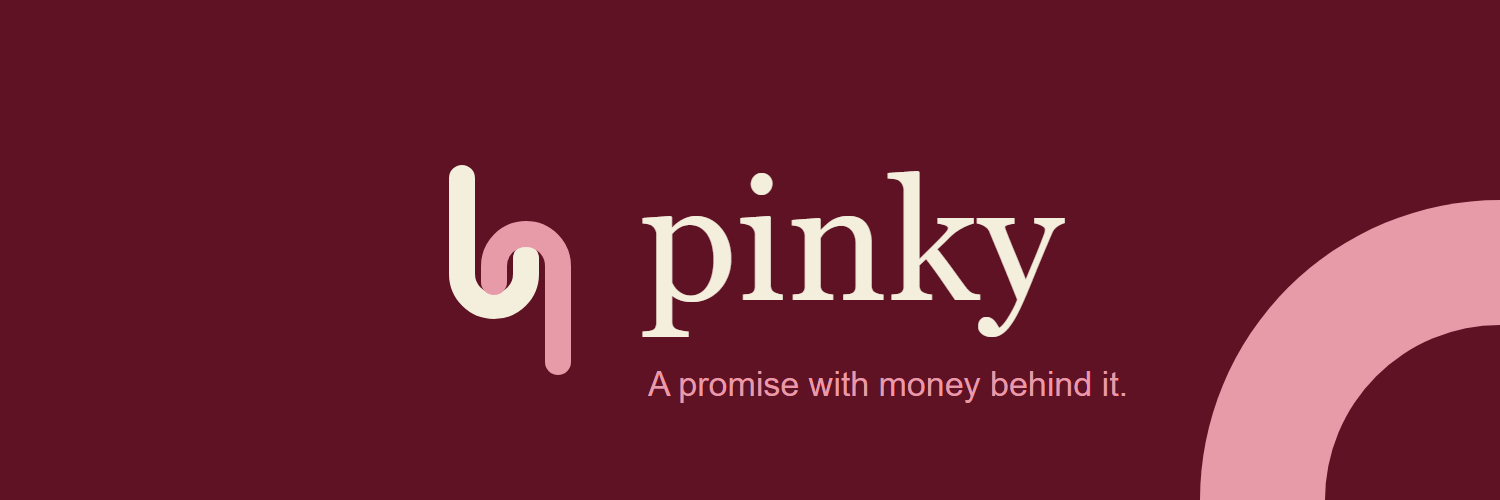
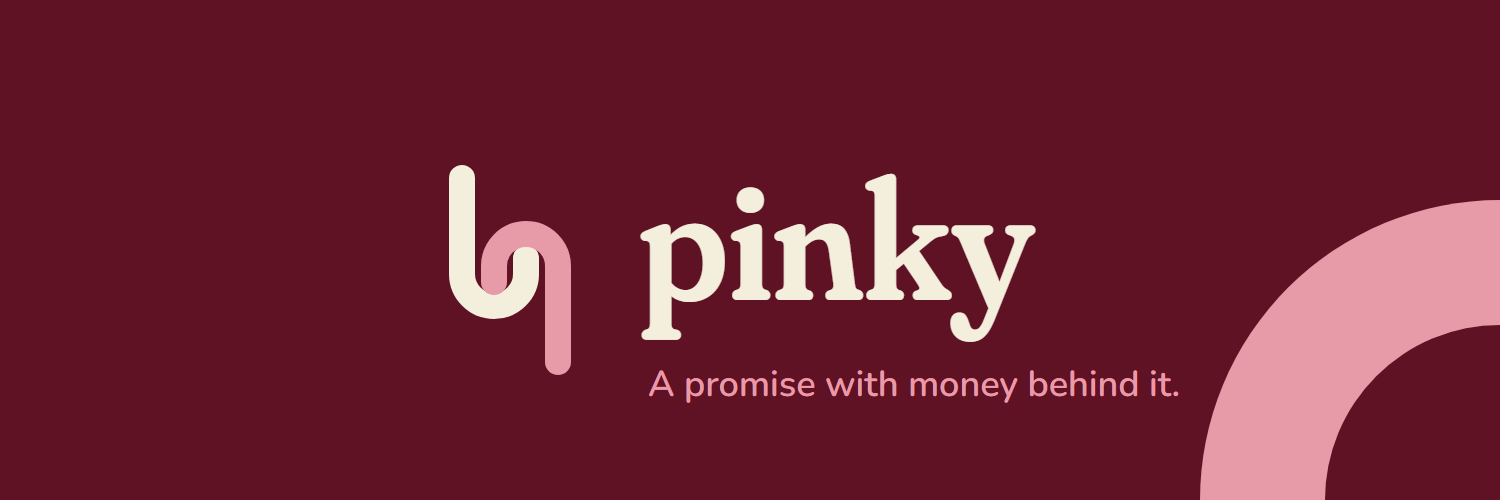
Site: softer type, and the promise form moves into the first screen
Fraunces and Nunito replace the system serif and sans. The form sits
beside the headline on wide screens and right under it on narrow ones.
The X banner uses the same wordmark.

Changed region(s): [[0.4293, 0.33, 0.7053, 0.69], [0.4293, 0.72, 0.7973, 0.81]]

diff --git a/site/style.css b/site/style.css
@@ -4,94 +4,111 @@
   --ivory: #F4EEDD;
   --paper: #FBF8EF;
   --pink: #E79AA8;
+  --pink-deep: #DC8395;
   --line: #DDD3B8;
   --ink-soft: #7A4350;
-  --serif: Georgia, 'Times New Roman', serif;
-  --sans: system-ui, -apple-system, 'Segoe UI', Roboto, sans-serif;
+  --display: 'Fraunces', Georgia, serif;
+  --sans: 'Nunito', system-ui, -apple-system, 'Segoe UI', sans-serif;
   --mono: ui-monospace, 'Cascadia Mono', Consolas, monospace;
 }
 
 * { box-sizing: border-box; }
-html { scroll-behavior: smooth; }
+html { scroll-behavior: smooth; scroll-padding-top: 76px; }
 body { margin: 0; background: var(--ivory); color: var(--wine); font: 17px/1.6 var(--sans); }
 a { color: inherit; }
-.wrap { max-width: 960px; margin: 0 auto; padding: 0 20px; }
+.wrap { max-width: 1040px; margin: 0 auto; padding: 0 20px; }
+
+h1, h2, .brand, .stats dd, .card p.say { font-family: var(--display); font-variation-settings: 'SOFT' 100, 'WONK' 1; }
 
 .top { position: sticky; top: 0; z-index: 5; display: flex; align-items: center; gap: 24px; padding: 12px 20px; background: var(--wine); color: var(--ivory); }
-.brand { display: flex; align-items: center; gap: 8px; text-decoration: none; font: 28px/1 var(--serif); }
+.brand { display: flex; align-items: center; gap: 8px; text-decoration: none; font-size: 30px; font-weight: 600; line-height: 1; }
 .brand svg { width: 28px; height: 34px; }
-.top nav { display: flex; gap: 20px; margin-left: auto; font-size: 15px; }
+.top nav { display: flex; gap: 22px; margin-left: auto; font-size: 15px; font-weight: 600; }
 .top nav a { text-decoration: none; opacity: .85; }
-.top nav a:hover { opacity: 1; text-decoration: underline; }
+.top nav a:hover { opacity: 1; text-decoration: underline; text-decoration-color: var(--pink); }
 
-.btn { font: inherit; font-size: 15px; padding: 10px 18px; border-radius: 999px; border: 1px solid var(--wine); background: var(--wine); color: var(--ivory); cursor: pointer; }
-.btn:hover { background: var(--wine-deep); }
-.btn[disabled] { opacity: .45; cursor: default; }
+.btn { font: 700 15px var(--sans); padding: 11px 20px; border-radius: 999px; border: 2px solid var(--wine); background: var(--wine); color: var(--ivory); cursor: pointer; transition: transform .12s ease, background .12s ease; }
+.btn:hover { background: var(--wine-deep); transform: translateY(-1px); }
+.btn:active { transform: translateY(0); }
+.btn[disabled] { opacity: .45; cursor: default; transform: none; }
 .btn.ghost { background: transparent; border-color: var(--pink); color: var(--ivory); }
+.btn.ghost:hover { background: rgba(231, 154, 168, .15); }
+.btn.pink { background: var(--pink); border-color: var(--pink); color: var(--wine); }
+.btn.pink:hover { background: var(--pink-deep); border-color: var(--pink-deep); }
 .btn.small { padding: 6px 14px; font-size: 14px; }
 .btn.light { background: transparent; color: var(--wine); }
 .btn.light:hover { background: var(--ivory); }
 
-.hero { background: var(--wine); color: var(--ivory); padding: 56px 0 48px; }
-.hero h1 { font: 400 clamp(36px, 6vw, 60px)/1.08 var(--serif); margin: 0 0 16px; max-width: 14ch; }
-.lede { font-size: 20px; max-width: 46ch; margin: 0 0 36px; color: #EBDCD0; }
-.stats { display: grid; grid-template-columns: repeat(4, minmax(0, 1fr)); gap: 16px; margin: 0; }
-.stats div { border-top: 1px solid rgba(244, 238, 221, .25); padding-top: 12px; }
-.stats dt { font-size: 14px; color: var(--pink); }
-.stats dd { margin: 0; font: 34px/1.2 var(--serif); }
+.hero { background: var(--wine); color: var(--ivory); padding: 56px 0 56px; }
+.hero-grid { display: grid; grid-template-columns: minmax(0, 1.15fr) minmax(0, 1fr); gap: 48px; align-items: center; }
+.hero h1 { font-size: clamp(40px, 5.6vw, 64px); font-weight: 600; line-height: 1.04; letter-spacing: -.01em; margin: 0 0 18px; }
+.lede { font-size: 20px; max-width: 40ch; margin: 0 0 36px; color: #EBDCD0; }
+.stats { display: grid; grid-template-columns: repeat(4, minmax(0, 1fr)); gap: 14px; margin: 0; }
+.stats div { border-top: 2px solid rgba(231, 154, 168, .45); padding-top: 10px; }
+.stats dt { font-size: 13px; font-weight: 600; color: var(--pink); }
+.stats dd { margin: 0; font-size: 34px; font-weight: 600; line-height: 1.2; }
 
-main section { padding: 48px 0 8px; }
-h2 { font: 400 32px/1.2 var(--serif); margin: 0 0 4px; }
-h3 { font: 600 17px/1.3 var(--sans); margin: 0 0 4px; }
+.form { display: grid; gap: 12px; background: var(--ivory); color: var(--wine); border-radius: 24px; padding: 24px 24px 20px; }
+.form h2 { font-size: 30px; margin: 0; }
+.form > .fine { margin: -6px 0 2px; }
+.form label { display: grid; gap: 5px; font-size: 14px; font-weight: 700; }
+.form input, .form select { font: 16px var(--sans); padding: 10px 14px; border: 2px solid var(--line); border-radius: 12px; background: #fff; color: var(--wine); min-width: 0; width: 100%; }
+.form input:focus, .form select:focus { outline: none; border-color: var(--pink); }
+.form .row { display: grid; grid-template-columns: minmax(0, 1fr) minmax(0, 1.2fr); gap: 8px; }
+.form button { margin-top: 6px; font-size: 17px; padding: 13px 20px; }
+.msg { font-size: 15px; margin: 0; }
+.msg:empty { display: none; }
+.msg.bad { color: #A01225; }
+
+main section { padding: 52px 0 8px; }
+h2 { font-size: 36px; font-weight: 600; line-height: 1.15; margin: 0 0 4px; }
+h3 { font: 700 18px/1.3 var(--sans); margin: 0 0 4px; }
 .sub { margin: 0 0 20px; color: var(--ink-soft); }
-.fine { font-size: 14px; color: var(--ink-soft); }
-.notice { margin: 24px 0 0; padding: 12px 16px; border: 1px dashed var(--wine); border-radius: 10px; font-size: 15px; }
+.fine { font-size: 14px; color: var(--ink-soft); margin: 0; }
+.notice { margin: 28px 0 0; padding: 12px 18px; border: 2px dashed var(--pink); border-radius: 16px; font-size: 15px; }
 
 .cards { display: grid; gap: 14px; }
-.card { background: var(--paper); border: 1px solid var(--line); border-radius: 14px; padding: 18px 20px; display: grid; gap: 10px; }
+.card { background: var(--paper); border: 1px solid var(--line); border-radius: 20px; padding: 18px 22px; display: grid; gap: 10px; }
 .card-head { display: flex; align-items: baseline; gap: 12px; flex-wrap: wrap; }
 .card-head .id { font: 14px var(--mono); color: var(--ink-soft); }
-.card p.say { margin: 0; font: 20px/1.4 var(--serif); }
+.card p.say { margin: 0; font-size: 23px; font-weight: 500; line-height: 1.35; }
+.card .who { font: 600 .78em var(--mono); letter-spacing: -.01em; }
+.card .who a { text-decoration-color: var(--pink); }
 .card .meta { display: flex; flex-wrap: wrap; gap: 6px 20px; font-size: 14px; color: var(--ink-soft); }
-.card .meta b { color: var(--wine); font-weight: 600; }
-.card .actions { display: flex; gap: 8px; flex-wrap: wrap; align-items: center; }
-.mono { font-family: var(--mono); font-size: .9em; }
+.card .meta b { color: var(--wine); font-weight: 700; }
+.card .actions { display: flex; gap: 10px; flex-wrap: wrap; align-items: center; }
 .empty { color: var(--ink-soft); }
 
-.badge { display: inline-block; padding: 3px 12px; border-radius: 999px; font-size: 13px; font-weight: 600; border: 1px solid var(--wine); }
+.badge { display: inline-block; padding: 3px 13px; border-radius: 999px; font-size: 13px; font-weight: 700; border: 2px solid var(--wine); }
 .badge.kept { background: var(--pink); border-color: var(--pink); }
 .badge.broken { background: var(--wine); color: var(--ivory); }
-.badge.waiting { background: transparent; }
 .badge.quiet { border-color: var(--line); color: var(--ink-soft); }
 
 .steps { list-style: none; counter-reset: step; padding: 0; margin: 20px 0; display: grid; grid-template-columns: repeat(2, minmax(0, 1fr)); gap: 14px; }
-.steps li { counter-increment: step; background: var(--paper); border: 1px solid var(--line); border-radius: 14px; padding: 18px 20px 14px; }
-.steps li::before { content: counter(step); display: inline-grid; place-items: center; width: 28px; height: 28px; border-radius: 50%; background: var(--pink); font-weight: 600; font-size: 14px; margin-bottom: 8px; }
+.steps li { counter-increment: step; background: var(--paper); border: 1px solid var(--line); border-radius: 20px; padding: 18px 22px 16px; }
+.steps li::before { content: counter(step); display: inline-grid; place-items: center; width: 32px; height: 32px; border-radius: 50%; background: var(--pink); font: 600 17px var(--display); margin-bottom: 8px; }
 .steps p { margin: 0; font-size: 16px; }
-
-.form { display: grid; grid-template-columns: repeat(2, minmax(0, 1fr)); gap: 14px 20px; background: var(--paper); border: 1px solid var(--line); border-radius: 14px; padding: 20px; }
-.form label { display: grid; gap: 6px; font-size: 14px; font-weight: 600; }
-.form input, .form select { font: 16px var(--sans); padding: 10px 12px; border: 1px solid var(--line); border-radius: 8px; background: #fff; color: var(--wine); min-width: 0; width: 100%; }
-.form input:focus, .form select:focus { outline: 2px solid var(--pink); border-color: var(--pink); }
-.form .row { display: grid; grid-template-columns: minmax(0, 1fr) minmax(0, 1fr); gap: 8px; }
-.form .fine, .form .msg, .form button { grid-column: 1 / -1; margin: 0; }
-.form button { justify-self: start; }
-.msg { font-size: 15px; min-height: 1.5em; }
-.msg.bad { color: #A01225; }
 
 .foot { margin-top: 56px; padding: 28px 0 40px; background: var(--wine); color: var(--ivory); font-size: 14px; }
 .foot dl { display: grid; grid-template-columns: max-content minmax(0, 1fr); gap: 4px 16px; margin: 0 0 16px; }
-.foot dt { color: var(--pink); }
+.foot dt { color: var(--pink); font-weight: 600; }
 .foot dd { margin: 0; font-family: var(--mono); word-break: break-all; }
 
+@media (max-width: 860px) {
+  .hero-grid { grid-template-columns: minmax(0, 1fr); gap: 28px; }
+  /* One column: the form comes right after the pitch, the numbers after the form. */
+  .pitch { display: contents; }
+  .pitch h1 { margin-bottom: -10px; }
+  .lede { margin-bottom: 0; }
+  .form { order: 2; }
+  .stats { order: 3; }
+}
 @media (max-width: 640px) {
   .top { gap: 12px; flex-wrap: wrap; }
-  .top nav { order: 3; width: 100%; margin: 0; justify-content: space-between; }
+  .top nav { order: 3; width: 100%; margin: 0; justify-content: space-between; gap: 12px; }
   .top .btn { margin-left: auto; }
-  .hero { padding: 36px 0 32px; }
+  .hero { padding: 36px 0 36px; }
   .stats { grid-template-columns: repeat(2, minmax(0, 1fr)); }
-  .steps, .form { grid-template-columns: minmax(0, 1fr); }
+  .steps { grid-template-columns: minmax(0, 1fr); }
+  html { scroll-padding-top: 120px; }
 }
-
-.card .who { font: 600 .8em var(--mono); letter-spacing: -.01em; }
-.card .who a { text-decoration-color: var(--pink); }

diff --git a/site/index.html b/site/index.html
@@ -6,6 +6,9 @@
 <title>Pinky — a promise with money behind it</title>
 <meta name="description" content="Deployers pinky-promise not to dump. Pinky holds their IMD until the IdentityMD oracle says they kept their word.">
 <link rel="icon" href="mark.svg" type="image/svg+xml">
+<link rel="preconnect" href="https://fonts.googleapis.com">
+<link rel="preconnect" href="https://fonts.gstatic.com" crossorigin>
+<link rel="stylesheet" href="https://fonts.googleapis.com/css2?family=Fraunces:opsz,wght,SOFT,WONK@9..144,400..700,100,1&family=Nunito:wght@400;600;700&display=swap">
 <link rel="stylesheet" href="style.css">
 </head>
 <body>
@@ -15,23 +18,39 @@
     <span>pinky</span>
   </a>
   <nav>
+    <a href="#make">Make a promise</a>
     <a href="#board">Promises</a>
     <a href="#how">How it works</a>
-    <a href="#make">Make one</a>
   </nav>
   <button id="connect" class="btn ghost">Connect wallet</button>
 </header>
 
 <section class="hero">
-  <div class="wrap">
-    <h1>A promise with money behind it.</h1>
-    <p class="lede">Every deployer says they won't dump. Here they put IMD on it. Keep your word and it comes home. Break it and it doesn't.</p>
-    <dl class="stats" id="stats">
-      <div><dt>Promises made</dt><dd data-stat="made">—</dd></div>
-      <div><dt>Kept</dt><dd data-stat="kept">—</dd></div>
-      <div><dt>Broken</dt><dd data-stat="broken">—</dd></div>
-      <div><dt>IMD on the line</dt><dd data-stat="locked">—</dd></div>
-    </dl>
+  <div class="wrap hero-grid">
+    <div class="pitch">
+      <h1>A promise with money behind it.</h1>
+      <p class="lede">Every deployer says they won't dump. Here they put IMD on it. Keep your word and it comes home. Break it and it doesn't.</p>
+      <dl class="stats" id="stats">
+        <div><dt>Promises made</dt><dd data-stat="made">—</dd></div>
+        <div><dt>Kept</dt><dd data-stat="kept">—</dd></div>
+        <div><dt>Broken</dt><dd data-stat="broken">—</dd></div>
+        <div><dt>IMD on the line</dt><dd data-stat="locked">—</dd></div>
+      </dl>
+    </div>
+
+    <form id="form" class="form">
+      <h2 id="make">Pinky promise?</h2>
+      <p class="fine">It's about your own wallet, the one you connect.</p>
+      <label>Token you won't move<input name="token" placeholder="0x…" autocomplete="off" required></label>
+      <label>At most this many tokens out<input name="maxOut" inputmode="decimal" placeholder="0" value="0" required></label>
+      <label>For how long
+        <span class="row"><input name="duration" inputmode="numeric" value="30" required><select name="unit"><option value="60">minutes</option><option value="3600">hours</option><option value="86400">days</option></select></span>
+      </label>
+      <label>Bond, in IMD<input name="bond" inputmode="decimal" placeholder="5" required></label>
+      <button class="btn pink" id="submit" type="submit">Make the promise</button>
+      <p class="fine" id="formHint">Minimum bond 5 IMD on Robinhood Chain. 10 minutes to 30 days; the oracle has been checked on short terms.</p>
+      <p id="formMsg" class="msg"></p>
+    </form>
   </div>
 </section>
 
@@ -53,22 +72,6 @@
       <li><h3>The number decides</h3><p>Within the limit: the bond goes home. Over it: a tenth goes to whoever asked, and the rest is split between PINKY stakers and a burn.</p></li>
     </ol>
     <p class="fine">A promise covers one wallet and one token, and nobody can pause or edit it once it's made. If the oracle can't answer after three tries, the bond is returned. The contracts are not audited by a third party; read them before you trust them.</p>
-  </section>
-
-  <section id="make">
-    <h2>Make a promise</h2>
-    <p class="sub">It's about your own wallet: the one you connect. The bond is in IMD on Robinhood Chain.</p>
-    <form id="form" class="form">
-      <label>Token you won't move<input name="token" placeholder="0x…" autocomplete="off" required></label>
-      <label>At most this many tokens out<input name="maxOut" inputmode="decimal" placeholder="0" value="0" required></label>
-      <label>For how long
-        <span class="row"><input name="duration" inputmode="numeric" value="30" required><select name="unit"><option value="60">minutes</option><option value="3600">hours</option><option value="86400">days</option></select></span>
-      </label>
-      <label>Bond, in IMD<input name="bond" inputmode="decimal" placeholder="5" required></label>
-      <p class="fine" id="formHint">Minimum bond 5 IMD. Terms run from 10 minutes to 30 days; the oracle has been checked on short ones.</p>
-      <button class="btn" id="submit" type="submit">Make the promise</button>
-      <p id="formMsg" class="msg"></p>
-    </form>
   </section>
 </main>
 

diff --git a/brand/BRAND.md b/brand/BRAND.md
@@ -19,8 +19,15 @@ thin strokes or text.
 ## Mark
 
 Two hooked pinkies: one ivory, one pink, on wine. Files: `avatar.svg` (400×400, safe inside X's
-round crop) and `banner.svg` (1500×500, X header). The wordmark is set in a system serif for now;
-pick a final typeface before anything is printed or animated.
+round crop) and `banner.svg` (1500×500, X header). PNGs sit next to them.
+
+## Type
+
+- **Fraunces**, weight 600, with the soft and wonky axes on (`'SOFT' 100, 'WONK' 1`): the wordmark, headings,
+  numbers and the sentence on each promise card.
+- **Nunito**: everything else.
+
+Both are open fonts served by Google Fonts. Rounded, a little playful, still readable in a table.
 
 ## Voice
 
